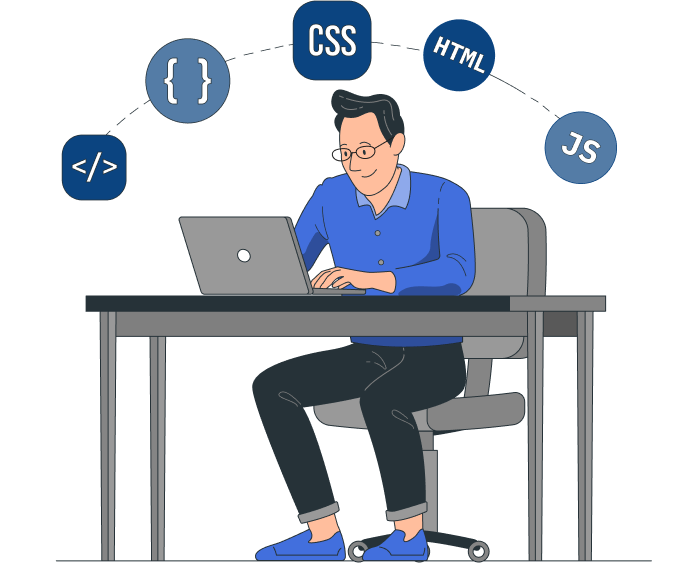
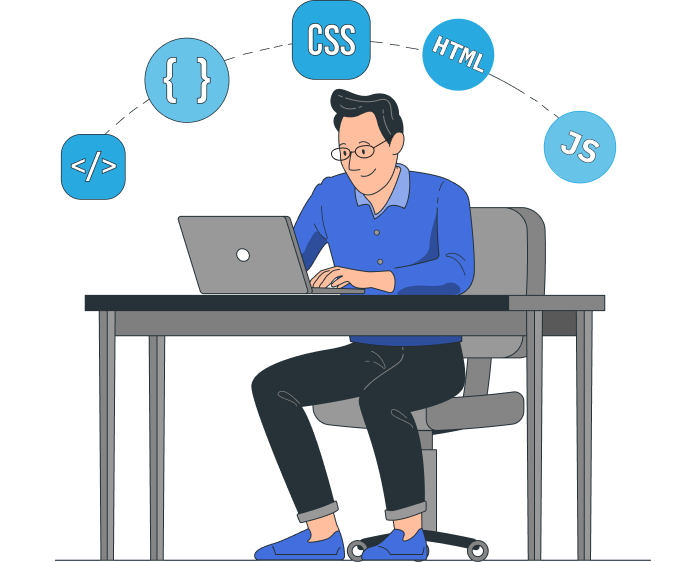
⬆ ajuste do layout

diff --git a/src/app/page.css b/src/app/page.css
@@ -1,12 +1,12 @@
 /* Hero Section - Technology Tags */
 .tech-tag {
   background-color: rgba(40, 169, 224, 0.25);
-  color: #8DDDFF;
+  color: #8dddff;
 }
 
 /* Download CV Button */
 .download-cv-button {
-  background-color: #D6D6D6;
+  background-color: #d6d6d6;
   color: #000000;
   border-radius: 3.40282e38px;
 }
@@ -35,14 +35,37 @@
   box-shadow: 0 10px 30px rgba(32, 140, 252, 0.3);
 }
 
+.h2-Nome {
+  color: #fff;
+}
+
 h2 {
-  color: #208CFC;
+  color: #4ca1f9;
+}
+
+.desenvolvedor {
+  color: #4ca1f9;
+}
+
+.conversar {
+  border-radius: 3.40282e38px;
+  width: 33%;
+  display: flex;
+  align-items: center;
+  justify-content: center;
+  transition: all 0.3s ease;
+  box-shadow: 0 0 20px rgba(68, 99, 217, 0.15);
+}
+
+.conversar:hover {
+  transform: translateY(-5px);
+  box-shadow: 0 10px 30px rgba(32, 140, 252, 0.3);
 }
 
 /* Experience and Training Section */
 .experience-card {
   transition: all 0.3s ease;
-  box-shadow: 0 0 20px rgba(68, 99, 217, .15);
+  box-shadow: 0 0 20px rgba(68, 99, 217, 0.15);
   backdrop-filter: blur(10px);
   min-height: 380px;
   height: 100%;
@@ -57,17 +80,17 @@ h2 {
 
 /* Period text style */
 .period-text {
-  color: #00D9FF;
+  color: #00d9ff;
 }
 
 /* Institution/Platform text */
 .platform-text {
-  color: #A0A0A0;
+  color: #a0a0a0;
 }
 
 /* Technology tags */
 .tech-tag-card {
-  background-color: #1A1A2E;
+  background-color: #1a1a2e;
 }
 
 /* Contact Section */
@@ -83,7 +106,7 @@ h2 {
   width: 80px;
   height: 80px;
   border-radius: 50%;
-  background-color:  rgba(40, 169, 224, .25);
+  background-color: rgba(40, 169, 224, 0.25);
   display: flex;
   align-items: center;
   justify-content: center;
@@ -103,7 +126,7 @@ h2 {
   right: 30px;
   width: 50px;
   height: 50px;
-  background-color: rgba(40, 169, 224, 0.25);;
+  background-color: rgba(40, 169, 224, 0.25);
   color: white;
   border: none;
   border-radius: 50%;
@@ -136,4 +159,3 @@ h2 {
     transform: translateY(0);
   }
 }
-

diff --git a/src/app/page.tsx b/src/app/page.tsx
@@ -91,16 +91,16 @@ export default function Home() {
               <div className="space-y-8">
                 {/* Main Title */}
                 <div className="space-y-4">
-                  <h1 className="text-4xl md:text-6xl font-bold text-primary leading-tight">
+                  <h5 className="text-4xl md:text-6xl font-bold text-primary leading-tight">
                     Olá, eu sou o
-                  </h1>
-                  <h2 className="text-5xl md:text-7xl font-bold text-primary leading-tight">
+                  </h5>
+                  <h5 className="h2-Nome text-5xl md:text-7xl font-bold text-primary leading-tight">
                     Bruno Gonçalves
-                  </h2>
-                  <div className="flex items-center space-x-2">
+                  </h5>
+                  <div className="desenvolvedor flex items-center space-x-2">
                     <TypewriterText
                       texts={["Desenvolvedor Full Stack", "Desenvolvedor Web"]}
-                      className="text-4xl md:text-6xl font-bold accent-primary"
+                      className="text-4xl md:text-5xl font-bold accent-primary"
                       speed={100}
                       pauseTime={2500}
                     />
@@ -161,7 +161,7 @@ export default function Home() {
                     href="https://wa.me/5521980109064"
                     target="_blank"
                     rel="noopener noreferrer"
-                    className="inline-flex items-center text-accent-primary hover:text-accent-secondary transition-colors duration-200 font-medium"
+                    className="conversar inline-flex items-center text-accent-primary hover:text-accent-secondary transition-colors duration-200 font-medium"
                   >
                     <Image
                       src="/image/iconZap.png"
